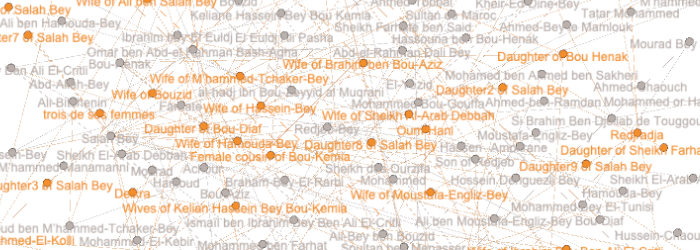
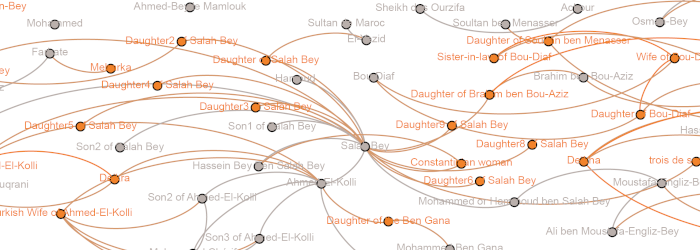
Sanders proof changes

diff --git a/_essays/v03-05-silent-no-more.md b/_essays/v03-05-silent-no-more.md
@@ -20,7 +20,7 @@ appendix:
   file: sanders-v03/README.txt
 - name: Data archive
   file: sanders-v03/sanders-data.zip
-preview: "/assets/img/v03/sanders/preview2.png"
+preview: "/assets/img/v03/sanders/preview.png"
 ---
 
 ### Introduction
@@ -104,15 +104,15 @@ added for the woman and linked to both the known father and son in the
 edges list.
 
 {% figure caption: "Figure 1: This graph depicts the Ottoman-Algerian Social Network (1567-1837) with only individuals who were explicitly named in the source materials. Women are shown in orange; men are gray. In this graph, only 12 named individuals are women (out of a total of 105) or just 11 percent. This figure, along with figures 2 and 3, justify the novel method of analysis employed in this study by showing how comparatively few women were explicitly named in the sources; however, by adding referenced women and those identified by inference, we generate a much more complete socio-political network of Ottoman Algeria. The women identified in this way were historically significant, even though we do not know their names, an argument borne out by the betweenness centrality scores presented in figure 4 and the accompanying analysis." %}
-![Network graph, showing Ottoman-Algerian Social Network with only named individuals.]({{site.url}}/assets/img/v03/sanders/figure1b.png)
+![Network graph, showing Ottoman-Algerian Social Network with only named individuals.]({{site.url}}/assets/img/v03/sanders/figure1.png)
 {% endfigure %}
 
 {% figure caption: "Figure 2: This graph depicts the Ottoman-Algerian Social Network (1567-1837) with both individuals who were explicitly named and those who were directly referenced in the source materials. For example, you will see “Daughter of Ahmed El-Koli” listed in the lower left corner of the graph because she was referenced in the documents as Ahmed El-Koli's daughter and as the wife of Salah Bey; she is therefore connected by edges to both of these men. Women are shown in orange; men are gray. In this graph of both named and referenced individuals, 24 out of 140 individuals shown are women, increasing the proportion of women from 11 to 26 percent. " %}
-![Network graph, showing Ottoman-Algerian Social Network with only named and referenced individuals.]({{site.url}}/assets/img/v03/sanders/figure2b.png)
+![Network graph, showing Ottoman-Algerian Social Network with only named and referenced individuals.]({{site.url}}/assets/img/v03/sanders/figure2.png)
 {% endfigure %}
 
 {% figure caption: "Figure 3: This graph represents the Ottoman-Algerian Social Network (1567-1837) with individuals who were named and referenced in the sources, as well as individuals whose existence was inferred through existing relationships. The most common way the research team identified an individual by inference was by completing a family unit. If a father and son were named or referenced in the sources, we added a woman as the partner of the father and mother of the son. In this graph, 55 out of 159 individuals shown are women, increasing the proportion of women from 26 to 35 percent." %}
-![Network graph, showing Ottoman-Algerian Social Network with named, referenced, and inferred individuals.]({{site.url}}/assets/img/v03/sanders/figure3b.png)
+![Network graph, showing Ottoman-Algerian Social Network with named, referenced, and inferred individuals.]({{site.url}}/assets/img/v03/sanders/figure3.png)
 {% endfigure %}
 
 {% figure caption: "Figure 4: Raw numbers and proportions of men and women in the three social network graphs depicted above. In the initial graph of named individuals alone, only 11 percent of the people represented are women (12/105 individuals). By adding unnamed but referenced persons, the proportion of women more than doubled to 26 percent (36/140). In the final graph, which includes inferred individuals, the ratio of women to men increased to about one in three (35 percent or 55/159)." %}
